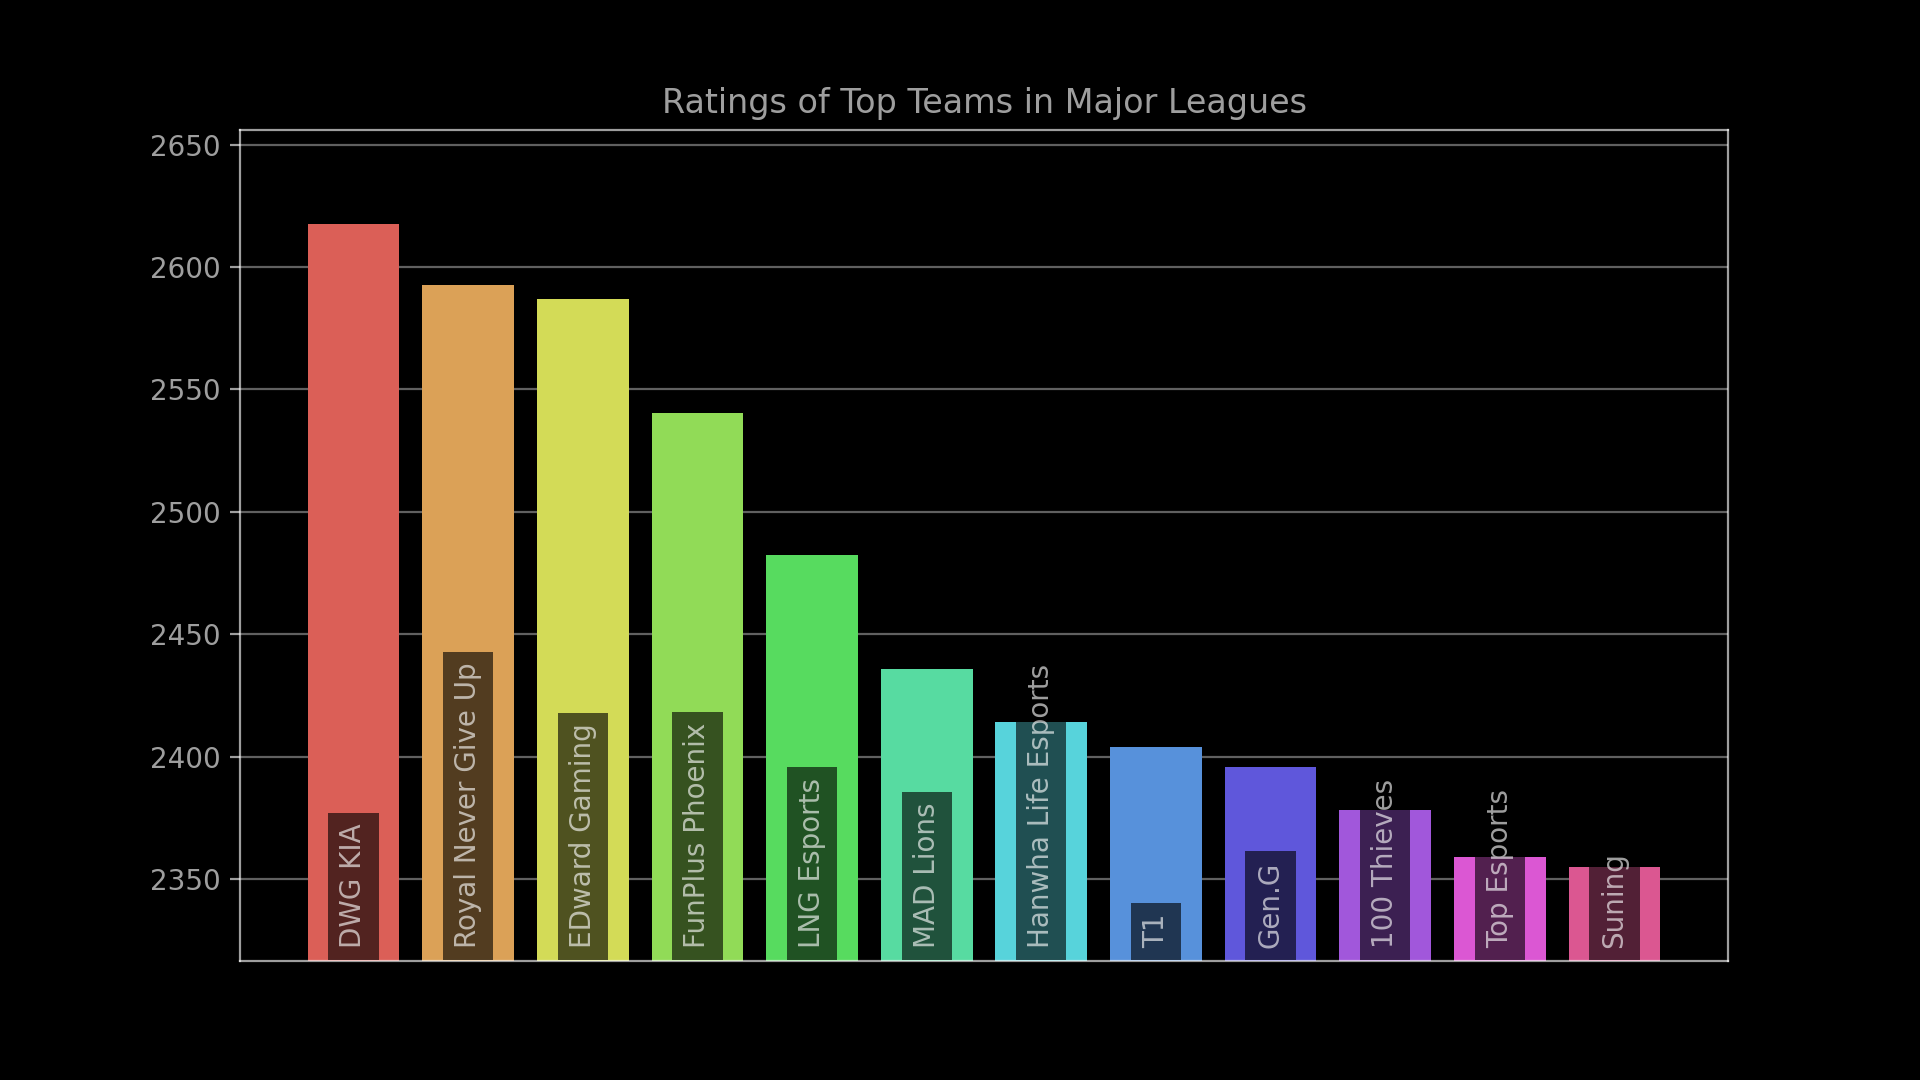
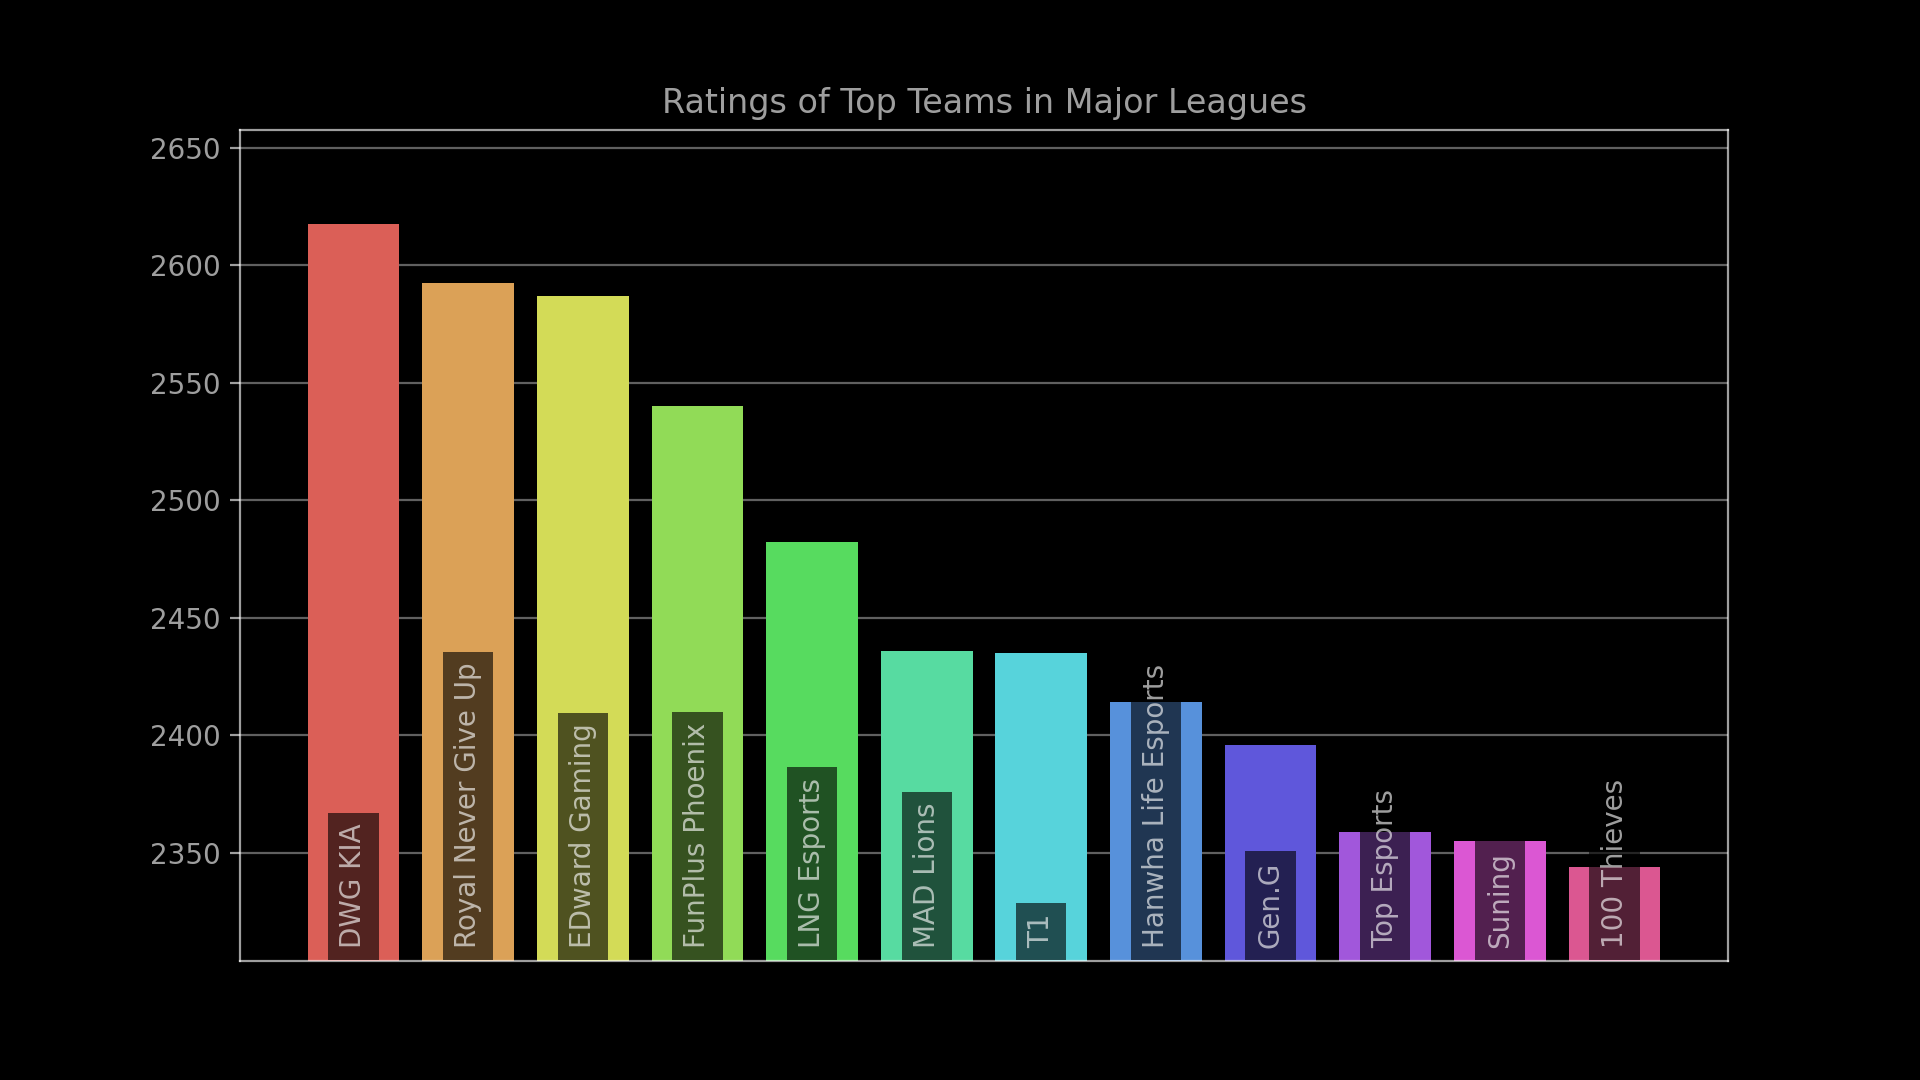
Update rating charts for 2021-10-13 20:00:00.

diff --git a/index.html b/index.html
@@ -83,12 +83,12 @@
             <tr><td style="text-align: right">5</td><td class="name">PSG Talon</td><td class="league" style="text-align: center">PCS</td><td class="rating" style="text-align: center">2521.6</td><td class="diff" style="text-align: center; white-space: nowrap"><span style="color: #4CAF50">&plus;44.6</span></td></tr>
             <tr><td style="text-align: right">6</td><td class="name">LNG Esports</td><td class="league" style="text-align: center">LPL</td><td class="rating" style="text-align: center">2482.3</td><td class="diff" style="text-align: center; white-space: nowrap"><span style="color: #4CAF50">&plus;10.1</span></td></tr>
             <tr><td style="text-align: right">7</td><td class="name">MAD Lions</td><td class="league" style="text-align: center">LEC</td><td class="rating" style="text-align: center">2435.8</td><td class="diff" style="text-align: center; white-space: nowrap"><span style="color: #F44336">&minus;37.7</span></td></tr>
-            <tr><td style="text-align: right">8</td><td class="name">Hanwha Life Esports</td><td class="league" style="text-align: center">LCK</td><td class="rating" style="text-align: center">2414.0</td><td class="diff" style="text-align: center; white-space: nowrap"><span style="color: #4CAF50">&plus;39.6</span></td></tr>
-            <tr><td style="text-align: right">9</td><td class="name">T1</td><td class="league" style="text-align: center">LCK</td><td class="rating" style="text-align: center">2404.0</td><td class="diff" style="text-align: center; white-space: nowrap"><span style="color: #F44336">&minus;9.5</span></td></tr>
+            <tr><td style="text-align: right">8</td><td class="name">T1</td><td class="league" style="text-align: center">LCK</td><td class="rating" style="text-align: center">2434.7</td><td class="diff" style="text-align: center; white-space: nowrap"><span style="color: #4CAF50">&plus;21.2</span></td></tr>
+            <tr><td style="text-align: right">9</td><td class="name">Hanwha Life Esports</td><td class="league" style="text-align: center">LCK</td><td class="rating" style="text-align: center">2414.0</td><td class="diff" style="text-align: center; white-space: nowrap"><span style="color: #4CAF50">&plus;39.6</span></td></tr>
             <tr><td style="text-align: right">10</td><td class="name">Gen.G</td><td class="league" style="text-align: center">LCK</td><td class="rating" style="text-align: center">2395.6</td><td class="diff" style="text-align: center; white-space: nowrap"><span style="color: #4CAF50">&plus;31.1</span></td></tr>
-            <tr><td style="text-align: right">11</td><td class="name">100 Thieves</td><td class="league" style="text-align: center">LCS</td><td class="rating" style="text-align: center">2378.3</td><td class="diff" style="text-align: center; white-space: nowrap"><span style="color: #4CAF50">&plus;25.0</span></td></tr>
-            <tr><td style="text-align: right">12</td><td class="name">Top Esports</td><td class="league" style="text-align: center">LPL</td><td class="rating" style="text-align: center">2358.8</td><td class="diff" style="text-align: center; white-space: nowrap"></td></tr>
-            <tr><td style="text-align: right">13</td><td class="name">Suning</td><td class="league" style="text-align: center">LPL</td><td class="rating" style="text-align: center">2354.8</td><td class="diff" style="text-align: center; white-space: nowrap"></td></tr>
+            <tr><td style="text-align: right">11</td><td class="name">Top Esports</td><td class="league" style="text-align: center">LPL</td><td class="rating" style="text-align: center">2358.8</td><td class="diff" style="text-align: center; white-space: nowrap"></td></tr>
+            <tr><td style="text-align: right">12</td><td class="name">Suning</td><td class="league" style="text-align: center">LPL</td><td class="rating" style="text-align: center">2354.8</td><td class="diff" style="text-align: center; white-space: nowrap"></td></tr>
+            <tr><td style="text-align: right">13</td><td class="name">100 Thieves</td><td class="league" style="text-align: center">LCS</td><td class="rating" style="text-align: center">2343.8</td><td class="diff" style="text-align: center; white-space: nowrap"><span style="color: #F44336">&minus;9.6</span></td></tr>
             <tr><td style="text-align: right">14</td><td class="name">Team WE</td><td class="league" style="text-align: center">LPL</td><td class="rating" style="text-align: center">2340.1</td><td class="diff" style="text-align: center; white-space: nowrap"></td></tr>
             <tr><td style="text-align: right">15</td><td class="name">Cloud9</td><td class="league" style="text-align: center">LCS</td><td class="rating" style="text-align: center">2330.5</td><td class="diff" style="text-align: center; white-space: nowrap"><span style="color: #F44336">&minus;54.5</span></td></tr>
             <tr><td style="text-align: right">16</td><td class="name">Bilibili Gaming</td><td class="league" style="text-align: center">LPL</td><td class="rating" style="text-align: center">2318.9</td><td class="diff" style="text-align: center; white-space: nowrap"></td></tr>

diff --git a/assets/js/chart-config.js b/assets/js/chart-config.js
@@ -3,10 +3,10 @@ const MONTH_ABBREVIATIONS = ["Jan", "Feb", "Mar", "Apr", "May", "Jun", "Jul", "A
 const topChartConfig = {
     type: "bar",
     data: {
-        labels: ['DWG KIA', 'Royal Never Give Up', 'EDward Gaming', 'FunPlus Phoenix', 'LNG Esports', 'MAD Lions', 'Hanwha Life Esports', 'T1', 'Gen.G', '100 Thieves', 'Top Esports', 'Suning'],
+        labels: ['DWG KIA', 'Royal Never Give Up', 'EDward Gaming', 'FunPlus Phoenix', 'LNG Esports', 'MAD Lions', 'T1', 'Hanwha Life Esports', 'Gen.G', 'Top Esports', 'Suning', '100 Thieves'],
         datasets: [{
             backgroundColor: ['#dc5f57', '#dca157', '#d4dc57', '#91dc57', '#57dc5f', '#57dca1', '#57d4dc', '#5791dc', '#5f57dc', '#a157dc', '#dc57d4', '#dc5791'],
-            data: [2617.728997844476, 2592.61501614084, 2586.72344319656, 2540.1867796999236, 2482.2936444367374, 2435.7814562964663, 2413.970867686532, 2403.9727882863267, 2395.5787621921963, 2378.300928601394, 2358.8275642289427, 2354.8123246379455],
+            data: [2617.728997844476, 2592.61501614084, 2586.72344319656, 2540.1867796999236, 2482.2936444367374, 2435.7814562964663, 2434.7364895719516, 2413.970867686532, 2395.5787621921963, 2358.8275642289427, 2354.8123246379455, 2343.752378457918],
             label: "Rating Points"
         }]
     },
@@ -34,8 +34,8 @@ const topChartConfig = {
                 }
             },
             y: {
-                max: 2656,
-                min: 2316
+                max: 2658,
+                min: 2304
             }
         }
     }

diff --git a/README.md b/README.md
@@ -51,12 +51,12 @@ confidence interval of the rating.
 | 4 | FunPlus Phoenix | 2540.2 | 84.9 |
 | 5 | LNG Esports | 2482.3 | 71.7 |
 | 6 | MAD Lions | 2435.8 | 86.2 |
-| 7 | Hanwha Life Esports | 2414.0 | 65.8 |
-| 8 | T1 | 2404.0 | 83.8 |
+| 7 | T1 | 2434.7 | 80.4 |
+| 8 | Hanwha Life Esports | 2414.0 | 65.8 |
 | 9 | Gen.G | 2395.6 | 84.9 |
-| 10 | 100 Thieves | 2378.3 | 86.8 |
-| 11 | Top Esports | 2358.8 | 71.2 |
-| 12 | Suning | 2354.8 | 69.8 |
+| 10 | Top Esports | 2358.8 | 71.2 |
+| 11 | Suning | 2354.8 | 69.8 |
+| 12 | 100 Thieves | 2343.8 | 82.8 |
 | 13 | Team WE | 2340.1 | 61.8 |
 | 14 | Cloud9 | 2330.5 | 65.5 |
 | 15 | Bilibili Gaming | 2318.9 | 73.6 |
